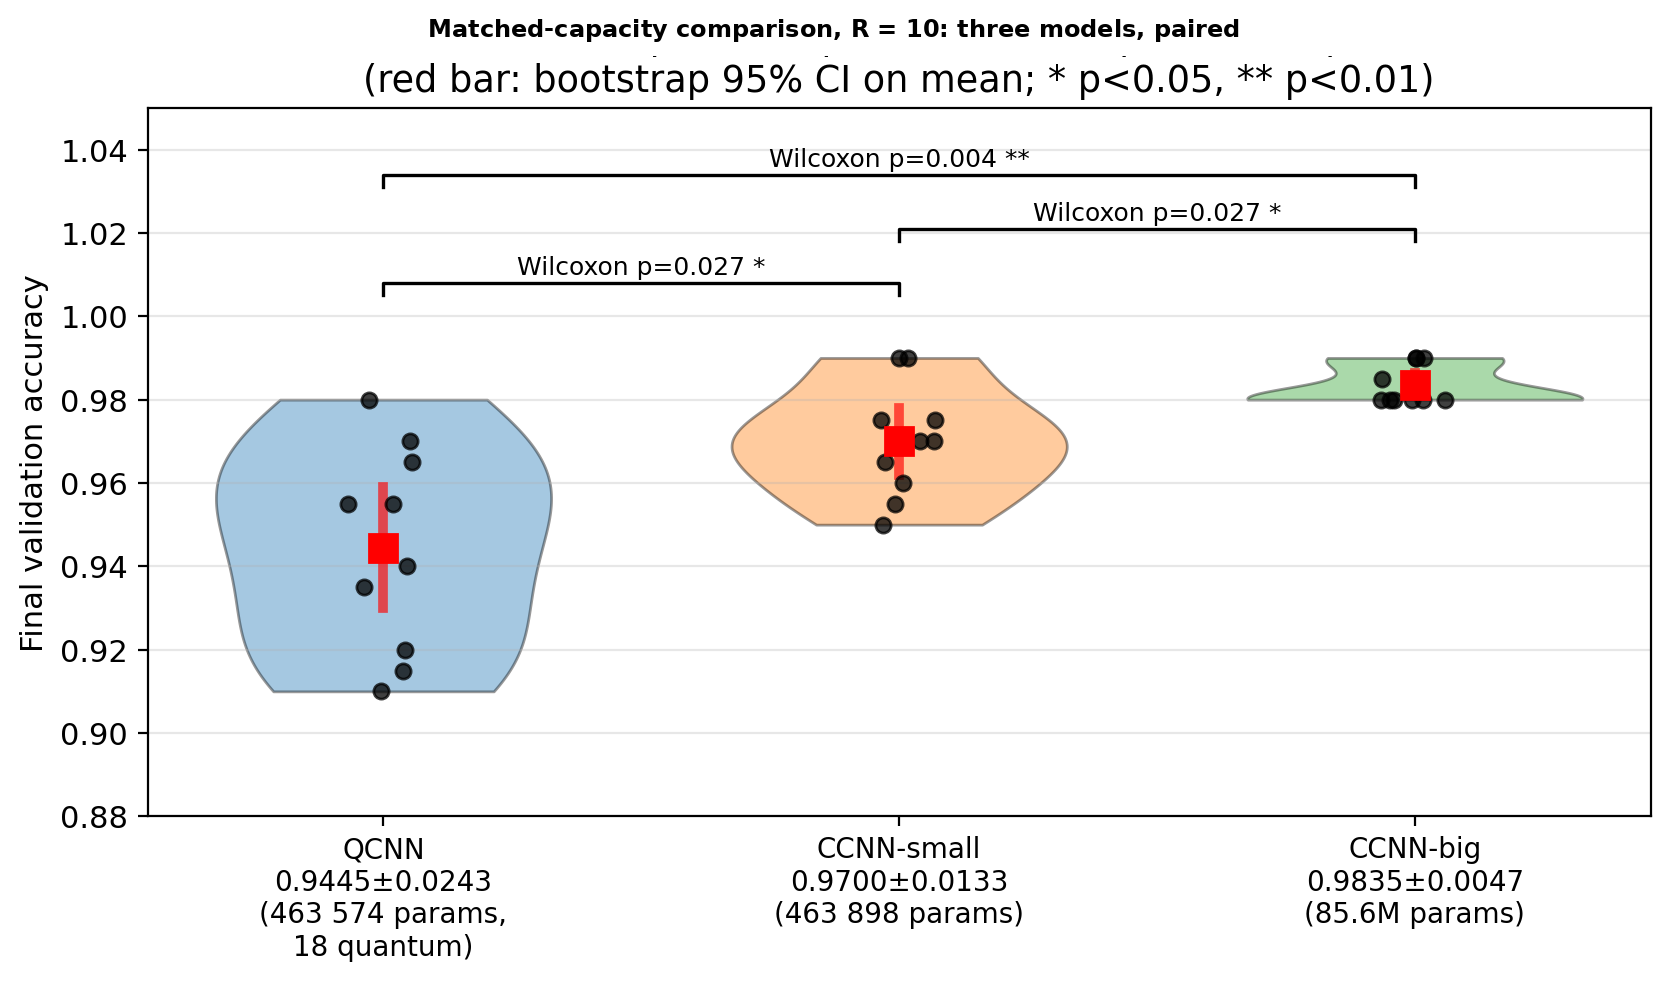
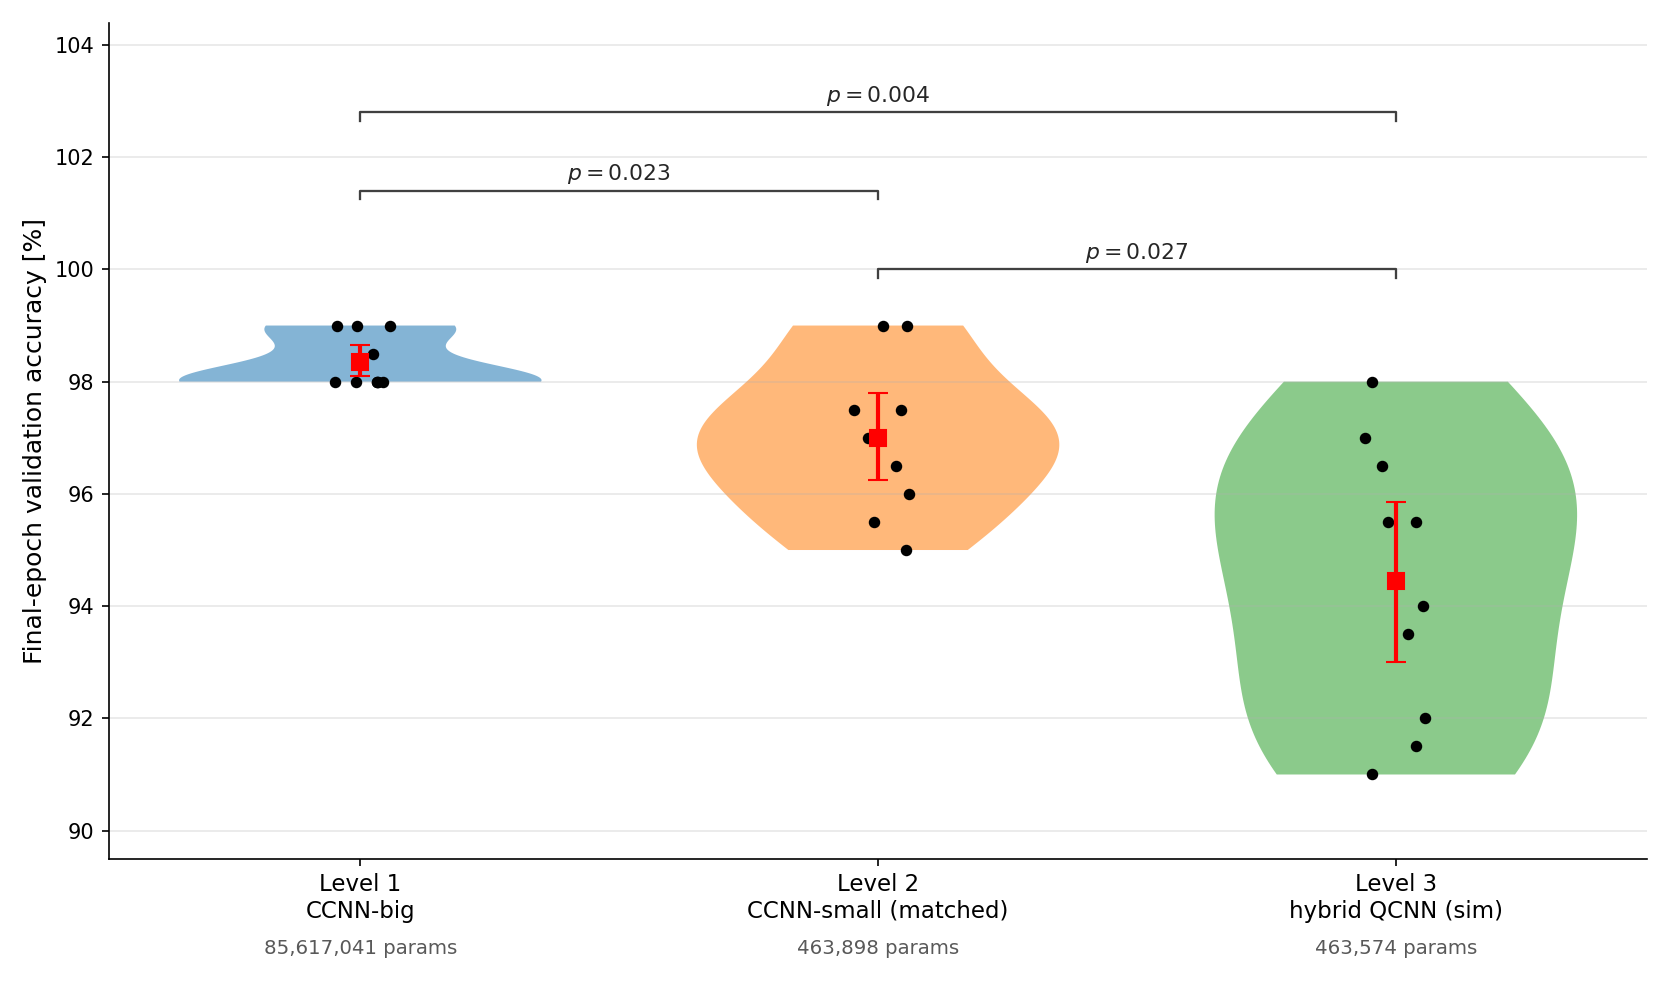
Align Level1-vs-Level2 p-value with midrank convention (0.027 -> 0.023) + regenerate violin figure
Same tie-handling family as the previous commit: under grid-snapped
midranks the within-classical contrast (CCNN-big vs CCNN-small) gives
exact p = 0.0234 (W = 3.5 unchanged, d = +0.97 unchanged); the previously
quoted 0.027 was the raw-float tie-free value. Both significant at 5%,
verdict unchanged. Updated: Sec. results text and the violin-figure
caption; violin_three_models.png regenerated from the new SSoT generator
violin_three_levels.py (qh_algorithms@main), which imports the same
paired_wilcoxon as aggregate_cap3_stats.py -- closing a figure-without-
script gap. Matched-contrast p = 0.027 is convention-independent and
unchanged everywhere. Build: 187 pp / 0 errors / 0 undefined refs.

diff --git a/chapters/quantum_algorithms.tex b/chapters/quantum_algorithms.tex
@@ -1205,7 +1205,7 @@ do not overlap between any two levels.
 \paragraph{Capacity contribution to the gap.}
 A Wilcoxon signed-rank exact paired test between Levels~1 and~2 — both
 classical, one with $\sim$$185\times$ the parameter count of the other —
-gives $W=3.5$, two-sided $p=2.7\times 10^{-2}$, paired Cohen's
+gives $W=3.5$, two-sided $p=2.3\times 10^{-2}$, paired Cohen's
 $d=+0.97$; the bootstrap 95\% CI on the per-seed difference is
 $[+0.005,\,+0.022]$. The Level-1 capacity advantage over Level~2 is
 therefore real but quantitatively modest, $\bar{a}_{\mathrm{big}} -
@@ -1485,7 +1485,7 @@ $p$-values.
     accuracy for the three simulator-trained levels of the multi-seed
     evidence ladder, with annotated paired Wilcoxon exact two-sided
     $p$-values: $p=0.027$ for the matched-capacity comparison
-    (Level~3 vs Level~2), $p=0.027$ for the within-classical capacity
+    (Level~3 vs Level~2), $p=0.023$ for the within-classical capacity
     contribution (Level~1 vs Level~2), and $p=0.004$ for the
     asymmetric-capacity comparison (Level~3 vs Level~1). Black points
     are the individual per-seed accuracies; red squares with vertical
